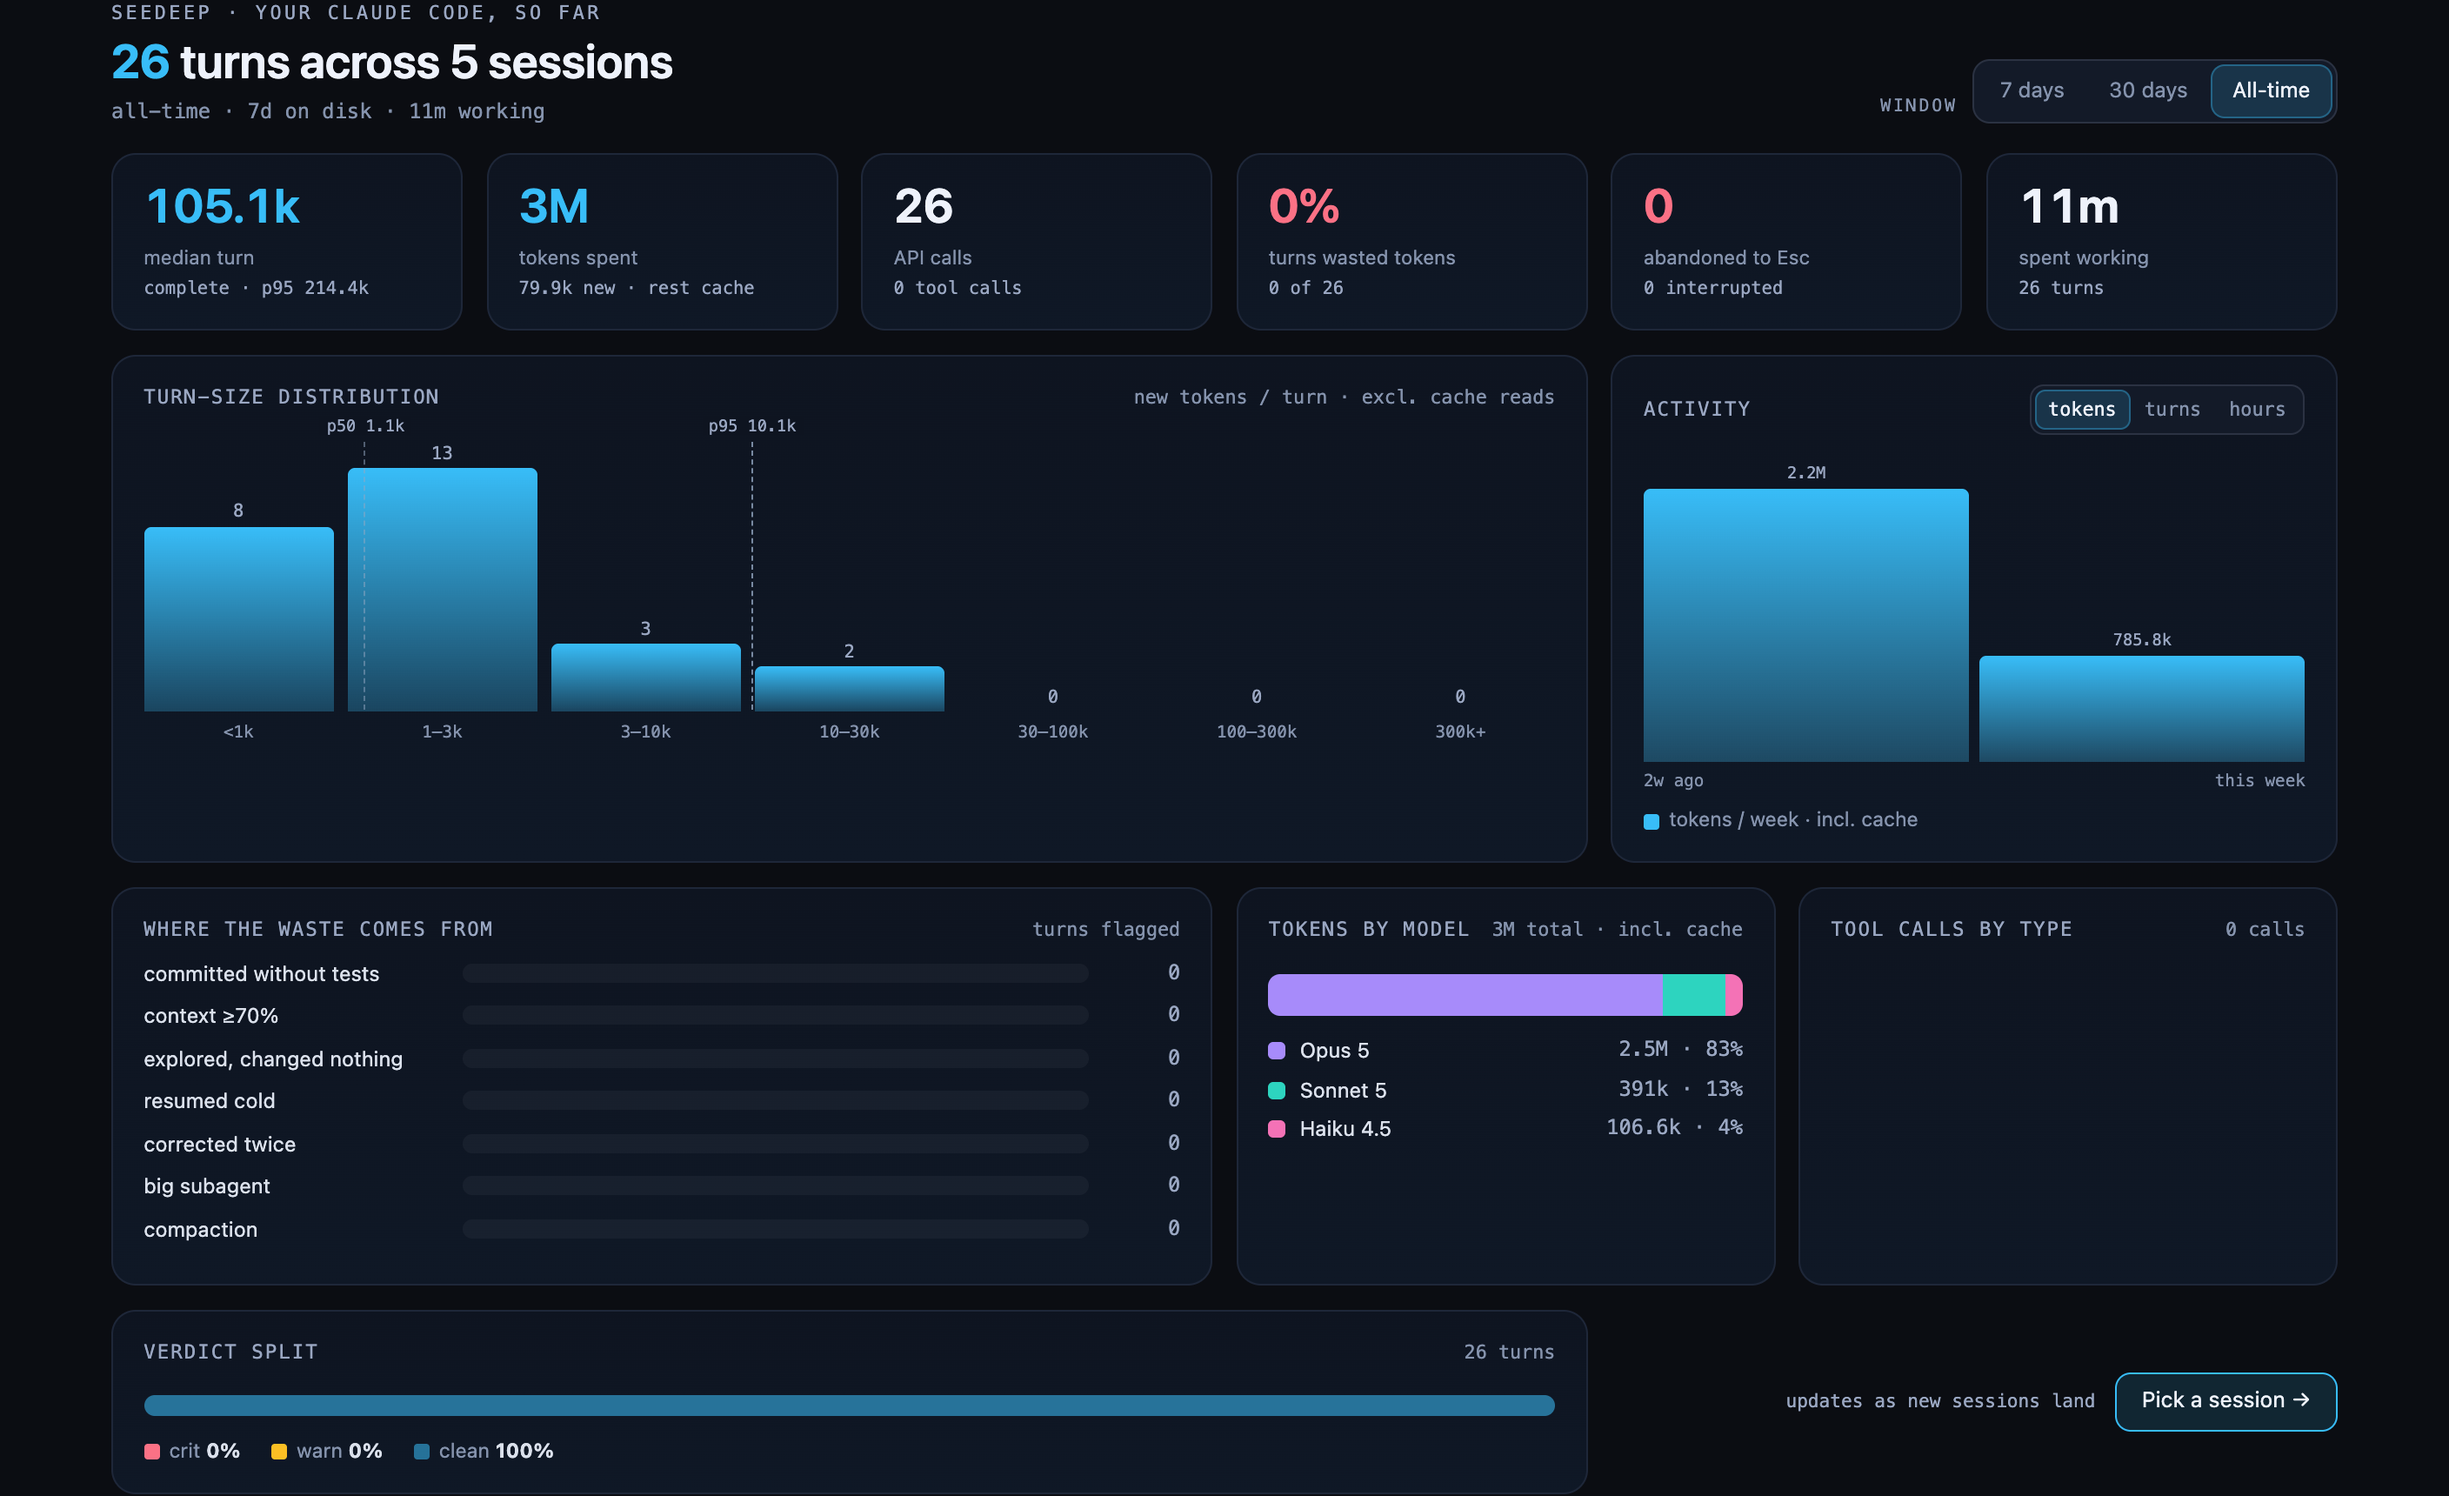
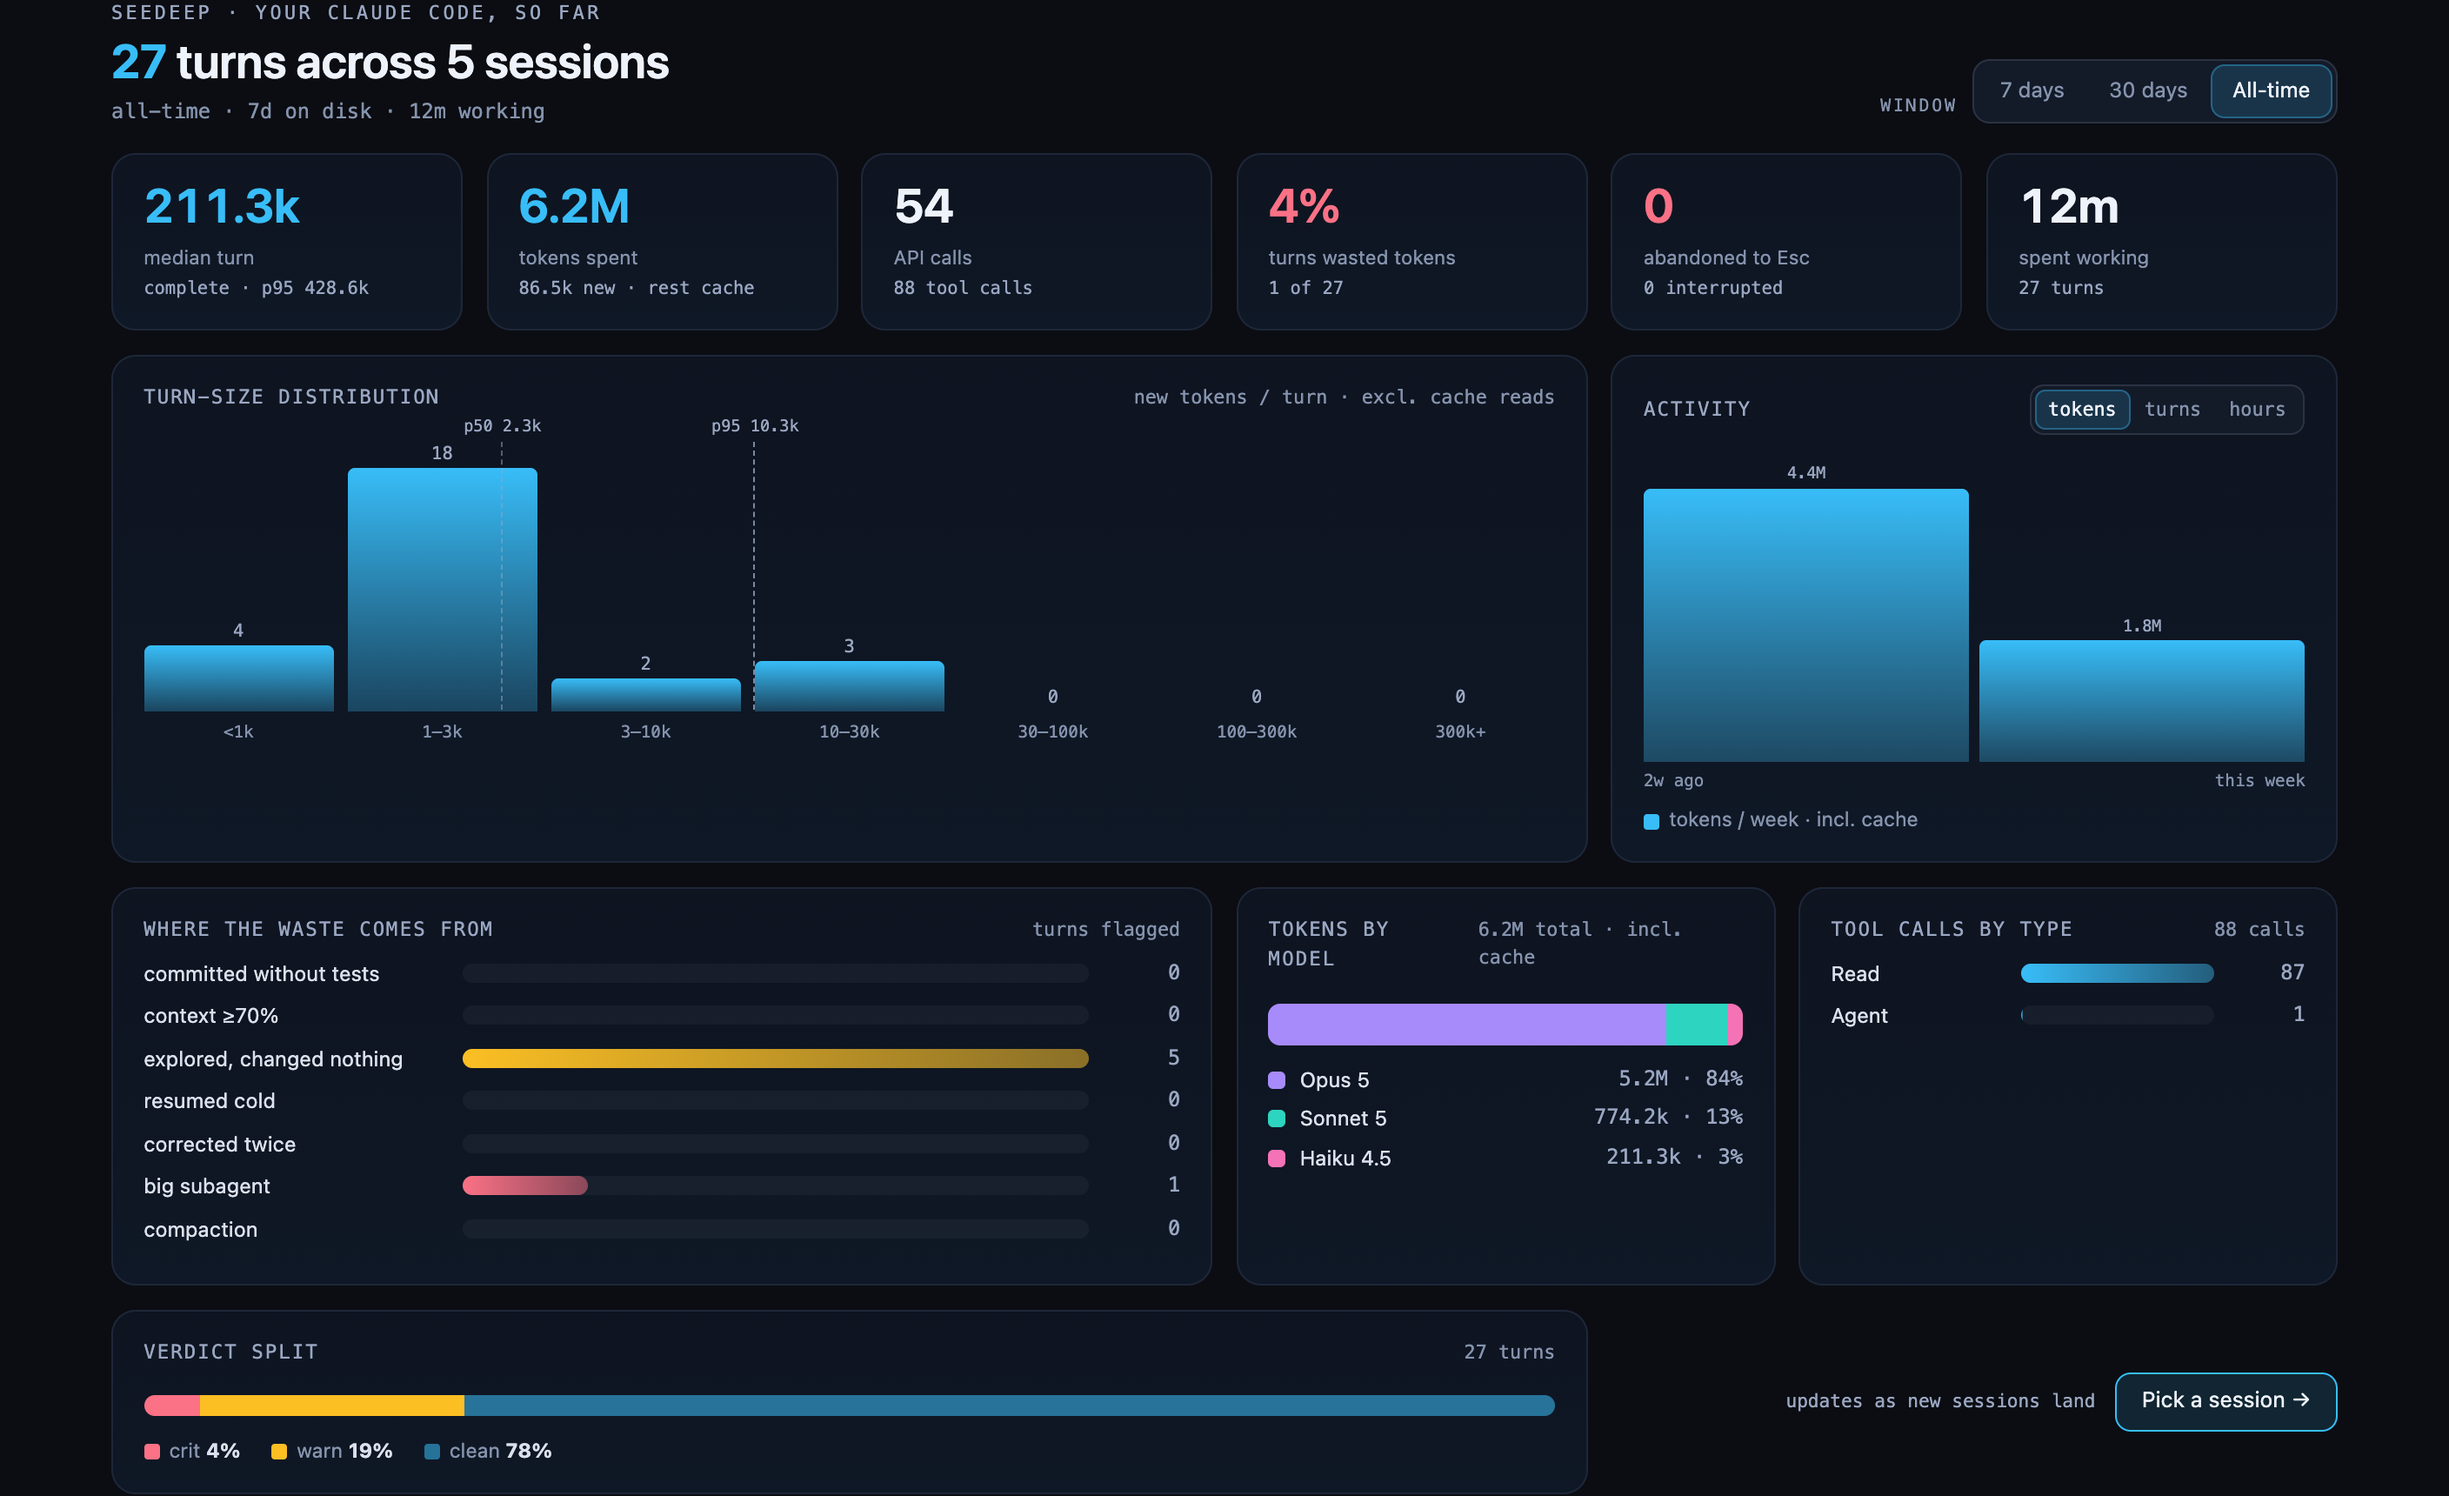
docs(figures): every shot must prove its caption, and the corpus must have waste in it
Two problems the failure-figure hunt exposed, both of the same family: a picture
that shows the SHAPE of a surface while demonstrating nothing it claims.

1. Every shot now declares a `waitFor` that proves its subject — a failed row for
   the failure figures, a running subagent's context bar, a highlighted match, a
   waste row whose value is NOT zero. The mechanism already existed and almost
   nobody used it. From here a figure that does not contain its subject is SKIPPED
   loudly instead of cut and published; that is also the only thing that can be
   said about the nine recorded shots without re-recording — at the next `record`
   they will be skipped rather than cut wrong.

2. `Home` promised "where the waste came from" over a card of zeros, because the
   corpus scene had no tool calls and nothing flagged. Its sessions now read files
   (88 calls, 87 Read + 1 Agent) and one of them delegates an audit that comes back
   over the wasted-subagent threshold: `explored, changed nothing 5`, `big subagent
   1`, and a verdict split of crit 4% / warn 19% / clean 78%. The read count is
   `EXPLORE_READS` from `core/verdict.ts` and named after it — the figure needs that
   rule to fire, so the number is the rule's, not a taste.

`doc-scenes.test.ts` asserts both, so a change to a scene fails in `bun test`
rather than silently on a page.

Also: shots gained `scrollTo`. The verdict list is capped at 210px by the product,
[…]

diff --git a/apps/server/scripts/doc-scenes.ts b/apps/server/scripts/doc-scenes.ts
@@ -464,6 +464,13 @@ function brokenSession(): Scene {
  * Search are about a CORPUS: on a single session the distribution is one bar, the weighted ranking
  * has nothing to rank, and a density ordering cannot be told from a recency one.
  */
+/**
+ * Files read in the exploring turn of each corpus session. It is `EXPLORE_READS` (8) in
+ * `core/verdict.ts` — the threshold above which a turn that read and changed nothing is flagged —
+ * and the figure needs the flag to fire, so the number is that rule's, not a taste.
+ */
+const EXPLORE_TURN_READS = 9;
+
 function corpus(): Scene {
   // Each session says the shared phrase ITS OWN way. They were identical once, and five rows of
   // one sentence read as generated rather than recorded — the figure's job is to show a ranking,
@@ -529,6 +536,18 @@ function corpus(): Scene {
     const w = new Writer(sessionId, cwd, clock(`2026-08-0${i + 1}T08:00:00.000Z`));
     w.typed(s.prompt);
     for (let t = 0; t < s.turns; t++) {
+      // Every session reads files, and one of them explores without changing anything. Home is a
+      // retrospective: a corpus with no tool call and nothing ever flagged renders every one of
+      // its cards as a row of zeros — the figure would then show the SHAPE of the surface while
+      // demonstrating none of what its caption promises.
+      const reads = t === 0 ? EXPLORE_TURN_READS : 2;
+      const tools = Array.from({ length: reads }, (_, r) => ({
+        id: `${sessionId.slice(0, 4)}t${t}r${r}`,
+        name: 'Read',
+        input: {
+          file_path: `${cwd}/src/${['routes', 'store', 'limiter', 'keys', 'index', 'auth', 'passes', 'meter', 'cache'][r % 9]}.ts`,
+        },
+      }));
       w.call({
         // The phrase every session shares, at different densities: what makes a density ranking
         // visibly different from a recency one.
@@ -537,9 +556,43 @@ function corpus(): Scene {
         cacheRead: s.read + t * 4_000,
         cacheWrite: t === 0 ? 9_000 : 0,
         out: s.out,
+        tools,
       });
-      w.turnEnd(18_000 + t * 3_000, 2);
+      for (const tool of tools) w.result(tool.id, `export const ${tool.name} = { …${120 + reads} lines… }`);
+      w.call({ text: `Pass ${t + 1} read.`, model: s.model, cacheRead: s.read + t * 4_000 + 2_000, out: 160 });
+      w.turnEnd(18_000 + t * 3_000, 2 + reads);
       if (t < s.turns - 1) w.typed(`Keep going — pass ${t + 2}.`);
+    }
+    // The one session that DELEGATED, and got a report too big to have been worth it: the `big
+    // subagent` row of the waste card, and the only crit in the corpus.
+    if (s.name === 'lantern') {
+      w.typed('Do the audit properly and hand me everything it finds.');
+      w.call({
+        text: 'Delegating so the detail does not land in this context.',
+        model: s.model,
+        cacheRead: s.read + 12_000,
+        out: 1_800,
+        tools: [
+          {
+            id: 'toolu_lantern_audit',
+            name: 'Agent',
+            input: {
+              description: 'Audit the keys endpoint',
+              subagent_type: 'general-purpose',
+              model: 'sonnet',
+              prompt: 'Audit every handler under src/ for missing input validation and report in full.',
+            },
+          },
+        ],
+      });
+      w.result('toolu_lantern_audit', longReport());
+      w.call({
+        text: 'Six handlers take input without a presence check.',
+        model: s.model,
+        cacheRead: s.read + 26_000,
+        out: 520,
+      });
+      w.turnEnd(52_000, 6);
     }
     return { cwd, sessionId, lines: w.lines };
   });

diff --git a/apps/server/tests/doc-scenes.test.ts b/apps/server/tests/doc-scenes.test.ts
@@ -195,3 +195,27 @@ describe('the commands scene', () => {
     }
   });
 });
+
+// The Home figure's caption promises "where the waste came from" and a tool-call breakdown. A
+// corpus with nothing flagged renders every one of those rows as a zero — the picture would then
+// show the SHAPE of the surface while demonstrating none of what it claims. So the corpus is
+// asserted to CARRY the waste, here, where a change to the scene fails in `bun test` rather than
+// silently on a page.
+describe('the corpus scene', () => {
+  const scene = SCENES.corpus!();
+  const sessions = [{ sessionId: scene.sessionId, lines: scene.lines }, ...(scene.archive ?? [])];
+
+  test('every session reads files, so the tool-call breakdown is not a row of zeros', () => {
+    const reads = sessions.reduce((n, s) => n + snapshotOf(s.lines, s.sessionId).mainTools.length, 0);
+    expect(reads).toBeGreaterThan(40);
+  });
+
+  test('the corpus carries both a warn and a crit, or the waste card demonstrates nothing', () => {
+    const severities = sessions.flatMap((s) => {
+      const snap = snapshotOf(s.lines, s.sessionId);
+      return snap.turnList.map((t) => computeVerdict(t, snap).severity);
+    });
+    expect(severities).toContain('warn');
+    expect(severities).toContain('crit');
+  });
+});

diff --git a/apps/server/scripts/doc-shots-check.ts b/apps/server/scripts/doc-shots-check.ts
@@ -30,6 +30,13 @@ export interface DocShot {
    */
   waitFor?: string;
   /**
+   * An element to scroll into view before the crop. A list the PRODUCT scrolls (the verdict list
+   * is capped at 190px) otherwise gets photographed at its top, cutting the very row the caption
+   * names in half. Scrolling is what a reader would do; widening the crop would show a panel the
+   * product does not have.
+   */
+  scrollTo?: string;
+  /**
    * The synthetic scene this shot is photographed on (`scripts/doc-scenes.ts`). Absent means the
    * RECORDED session — a real one, replayed. A scene exists only for states no recording can
    * honestly produce: a failed call, a compaction, a corpus of sessions.

diff --git a/apps/server/scripts/capture-demo.ts b/apps/server/scripts/capture-demo.ts
@@ -1067,6 +1067,15 @@ function makeTake(
       await box.type(shot.type.text, { delay: 45 });
       await page.waitForTimeout(2_500);
     }
+    if (shot.scrollTo) {
+      const target = page.locator(shot.scrollTo).filter({ visible: true }).first();
+      if (!(await target.isVisible().catch(() => false))) {
+        console.log(`[doc-shots] SKIP ${shot.id} — nothing to scroll to (${shot.scrollTo})`);
+        return;
+      }
+      await target.scrollIntoViewIfNeeded();
+      await page.waitForTimeout(600);
+    }
     if (shot.waitFor) {
       await page
         .locator(shot.waitFor)
